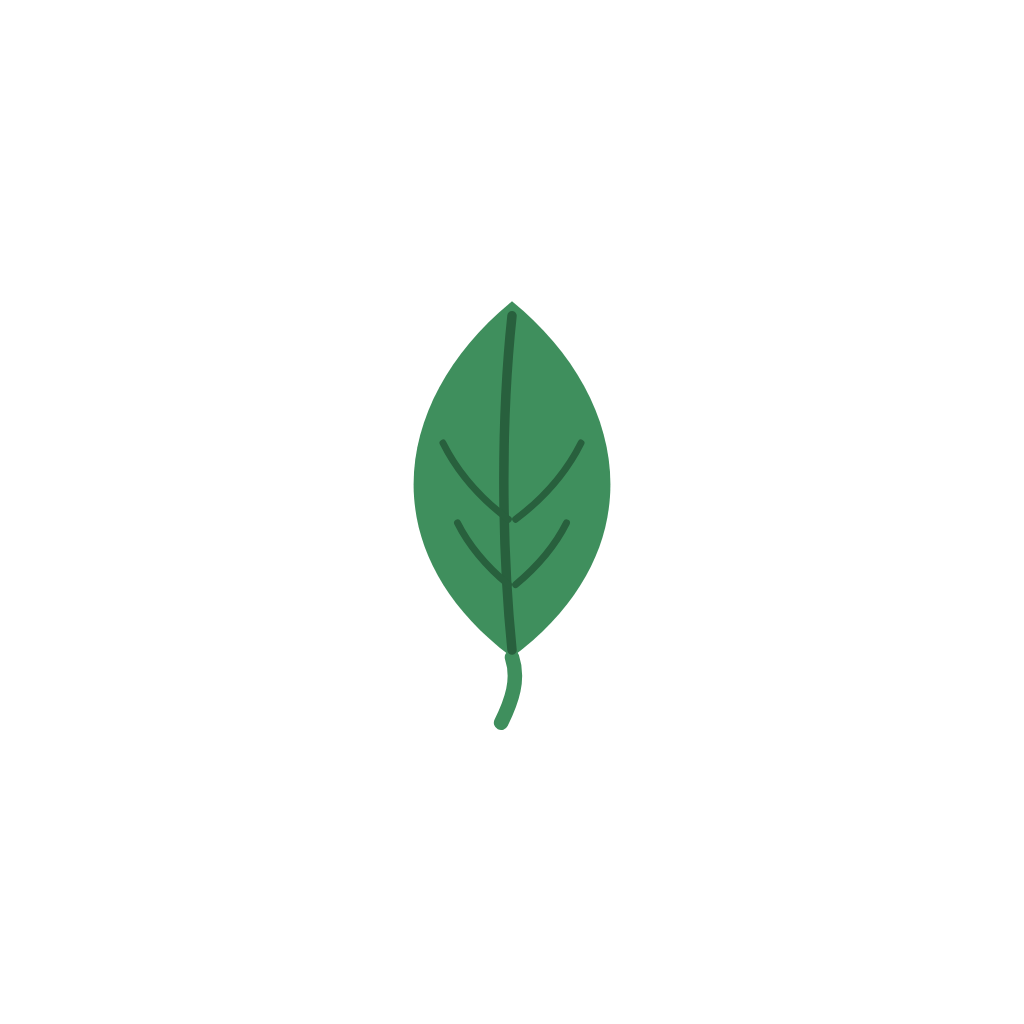
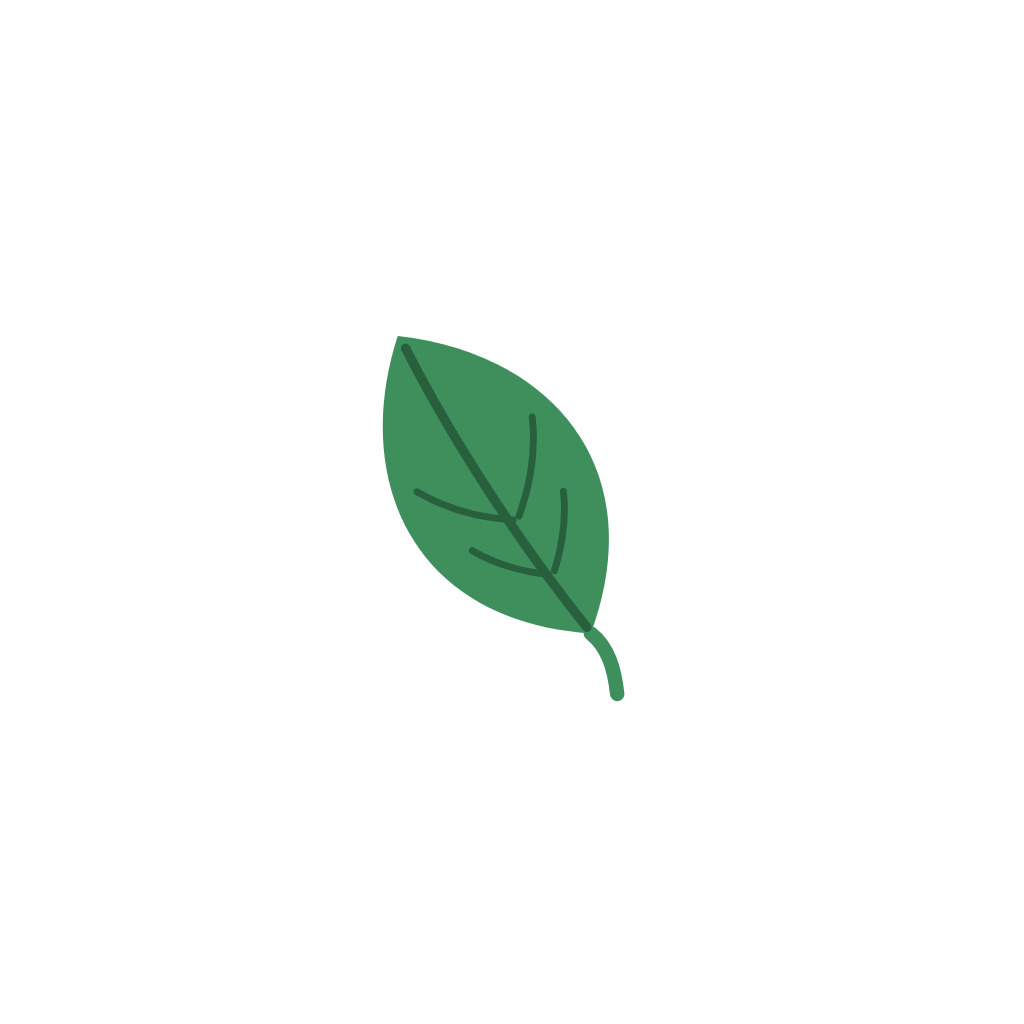
Que el icono y la hoja del arranque sean la misma hoja
Tocabas un icono con la hoja parada y aparecia una hoja inclinada de otro tamano.
Ahora el icono sale con la misma inclinacion con la que la hoja espera quieta en la
animacion, y el angulo vive en un solo lugar que leen las dos puntas: cambiarlo ahi y
volver a correr el script alcanza para que sigan coincidiendo.

La imagen de la pantalla nativa es literalmente el primer cuadro de la animacion: la
misma hoja apagada, del mismo tamano y en la misma posicion. El tamano no esta
elegido a ojo, lo calcula el script y lo imprime al terminar. Antes el cambio de la
pantalla nativa a la de JS era una hoja verde y chica que se volvia gris y grande.

De paso, el fondo de la pantalla nativa acompana el tema: en claro pasaba de verde
oscuro a gris claro de golpe.

Y la animacion en si: mientras la hoja se llena le crece atras un resplandor del
color de la estacion, y cuando termina sale un anillo del mismo color, una sola vez,
que separa el llenado de la salida. Se va de tres formas sorteadas en vez de dos.
Arranca en escala 1 y no en 0.94, que era el salto que se veia al tomar la posta.

Claude-Session: https://claude.ai/code/session_01RpAdLQn3NoWhaMPxX27Gbn

Changed region(s): [[0.375, 0.2812, 0.625, 0.7188]]

diff --git a/mobile/src/components/Splash.tsx b/mobile/src/components/Splash.tsx
@@ -2,7 +2,7 @@ import { Image } from "expo-image";
 import { useEffect, useRef, useState } from "react";
 import { Animated, Easing, StyleSheet, useWindowDimensions } from "react-native";
 import { useSafeAreaInsets } from "react-native-safe-area-context";
-import { LEAF_EMPTY, leafColorsFor } from "../theme/leaf";
+import { LEAF_EMPTY, LEAF_TILT, leafColorsFor } from "../theme/leaf";
 import { space } from "../theme/tokens";
 import { useTheme } from "../theme/useTheme";
 import { FillingLeaf } from "./Leaf";
@@ -20,13 +20,10 @@ const wordmark = {
 const LEAF_SIZE = 138;
 
 /**
- * Cómo está parada antes de soltarse.
- *
- * Bien inclinada y no casi derecha: derecha parece pegada a la pantalla, y así parece
- * colgando de algo que ya no se ve. Es además de donde arranca el giro de la caída, que
- * por eso no empieza de cero.
+ * Cómo está parada antes de soltarse. El ángulo vive en leaf.ts porque también lo usan
+ * los íconos, que tienen que mostrar la hoja parada igual que acá.
  */
-const INCLINACION = "-33deg";
+const INCLINACION = `${LEAF_TILT}deg`;
 
 const LLENADO_MS = 1400;
 /**
@@ -50,7 +47,9 @@ const SALIDA_MS = 1200;
 const MINIMO_MS = LLENADO_MS + CONTEMPLA_MS + MARCA_MS + SALIDA_MS;
 
 /** Por dónde se va. Se sortea al abrir, así la app no arranca siempre igual. */
-type Salida = "caida" | "rulo";
+type Salida = "caida" | "rulo" | "planeo";
+
+const SALIDAS: Salida[] = ["caida", "rulo", "planeo"];
 
 interface Props {
   /** La fuente y la sesión ya están. */
@@ -69,10 +68,22 @@ interface Props {
  * en marzo que en octubre; el invierno es una perenne y no una hoja seca, porque un
  * consultorio abierto todo el año no se cuenta con algo que se murió.
  *
- * Se va de dos maneras, sorteadas al abrir: cayendo con el vaivén de algo que el aire
- * frena, o dando una vuelta y saliéndose por la derecha. El telón se corre para el mismo
- * lado que se fue la hoja —hacia abajo pierde alto, hacia la derecha pierde ancho— así lo
- * que aparece atrás parece destapado por ella y no por una transición cualquiera.
+ * Arranca donde la dejó la pantalla nativa: la misma hoja, apagada, del mismo tamaño y
+ * con la misma inclinación. Ese cuadro está dibujado en leaf-mark.png, que sale del mismo
+ * archivo de formas (ver scripts/iconos.mjs), así que el cambio de una pantalla a la otra
+ * no se ve.
+ *
+ * Mientras se llena, atrás crece un resplandor del color de la estación. Es lo único que
+ * pinta la pantalla entera y por eso hace casi todo el trabajo: la hoja sola sobre el
+ * fondo se leía como un dibujo esperando, y con el resplandor se lee como algo que está
+ * pasando. Cuando termina de llenarse sale un anillo del mismo color, una sola vez, que
+ * es lo que avisa que ya está y separa el llenado de la salida.
+ *
+ * Se va de tres maneras, sorteadas al abrir: cayendo con el vaivén de algo que el aire
+ * frena, dando una vuelta y saliéndose por la derecha, o planeando de costado como si se
+ * la llevara el viento. El telón se corre para el mismo lado que se fue la hoja —hacia
+ * abajo pierde alto, hacia el costado pierde ancho— así lo que aparece atrás parece
+ * destapado por ella y no por una transición cualquiera.
  *
  * La marca de abajo se va primero, antes de que la hoja llegue a esa altura: verla
  * atravesada por una hoja que cae sería un choque, no una animación.
@@ -82,7 +93,7 @@ export function Splash({ ready, onDone, onShown }: Props) {
   const { width, height } = useWindowDimensions();
   const insets = useSafeAreaInsets();
 
-  const [salida] = useState<Salida>(() => (Math.random() < 0.5 ? "caida" : "rulo"));
+  const [salida] = useState<Salida>(() => SALIDAS[Math.floor(Math.random() * SALIDAS.length)]);
   const tinta = useRef(leafColorsFor(new Date())).current;
 
   /* El llenado mueve una propiedad del SVG y la escala mueve una transformación, y esos
@@ -93,6 +104,8 @@ export function Splash({ ready, onDone, onShown }: Props) {
   const vuela = useRef(new Animated.Value(0)).current;
   const marca = useRef(new Animated.Value(1)).current;
   const telon = useRef(new Animated.Value(0)).current;
+  /** El anillo que sale una sola vez, cuando la hoja termina de llenarse. */
+  const anillo = useRef(new Animated.Value(0)).current;
 
   const [llena100, setLlena100] = useState(false);
 
@@ -117,6 +130,18 @@ export function Splash({ ready, onDone, onShown }: Props) {
     const reloj = setTimeout(() => setLlena100(true), LLENADO_MS + CONTEMPLA_MS);
     return () => clearTimeout(reloj);
   }, [llena, crece]);
+
+  // El anillo del final del llenado. Una vez y no en bucle: es un aviso, no un latido.
+  useEffect(() => {
+    if (!llena100) return;
+
+    Animated.timing(anillo, {
+      toValue: 1,
+      duration: 900,
+      easing: Easing.out(Easing.cubic),
+      useNativeDriver: true,
+    }).start();
+  }, [llena100, anillo]);
 
   // Mientras haya algo que esperar, la hoja se mece. Una pantalla quieta es una app colgada.
   useEffect(() => {
@@ -161,8 +186,22 @@ export function Splash({ ready, onDone, onShown }: Props) {
   /* ---------------- cómo se mueve la hoja ---------------- */
 
   const cayendo = salida === "caida";
+  /** Las dos que se van de costado corren el telón a lo ancho y no a lo alto. */
+  const deCostado = salida !== "caida";
 
-  const vuelo = cayendo
+  const vuelo = salida === "planeo"
+    ? {
+        // Se va derecho de costado, cabeceando apenas, como algo que el viento arrastra
+        // sin llegar a hacerlo girar. Baja poco: lo que se lee es el desplazamiento.
+        translateY: vuela.interpolate({ inputRange: [0, 0.4, 1], outputRange: [0, height * 0.06, height * 0.18] }),
+        translateX: vuela.interpolate({ inputRange: [0, 0.35, 1], outputRange: [0, -width * 0.12, width * 0.95] }),
+        rotate: vuela.interpolate({
+          inputRange: [0, 0.35, 0.7, 1],
+          outputRange: [INCLINACION, "-52deg", "-8deg", "-30deg"],
+        }),
+        opacity: vuela.interpolate({ inputRange: [0, 0.8, 1], outputRange: [1, 1, 0] }),
+      }
+    : cayendo
     ? {
         // Arranca despacio y acelera, con el aire corriéndola de un lado al otro.
         translateY: vuela.interpolate({ inputRange: [0, 0.25, 0.55, 1], outputRange: [0, height * 0.09, height * 0.36, height * 0.95] }),
@@ -185,7 +224,7 @@ export function Splash({ ready, onDone, onShown }: Props) {
      Se escala desde el centro, así que hay que empujarlo de vuelta la mitad de lo que se
      encogió para que el borde de abajo (o el de la derecha) se quede donde está. */
   const encoge = telon.interpolate({ inputRange: [0, 1], outputRange: [1, 0.0001] });
-  const empuja = telon.interpolate({ inputRange: [0, 1], outputRange: [0, (cayendo ? height : width) / 2] });
+  const empuja = telon.interpolate({ inputRange: [0, 1], outputRange: [0, (deCostado ? width : height) / 2] });
 
   return (
     <Animated.View
@@ -199,9 +238,9 @@ export function Splash({ ready, onDone, onShown }: Props) {
           StyleSheet.absoluteFill,
           {
             backgroundColor: dark ? colors.ink : colors.bg,
-            transform: cayendo
-              ? [{ translateY: empuja }, { scaleY: encoge }]
-              : [{ translateX: empuja }, { scaleX: encoge }],
+            transform: deCostado
+              ? [{ translateX: empuja }, { scaleX: encoge }]
+              : [{ translateY: empuja }, { scaleY: encoge }],
           },
         ]}
       />
@@ -224,14 +263,38 @@ export function Splash({ ready, onDone, onShown }: Props) {
         />
       </Animated.View>
 
-      {/* La traslación va acá afuera y el giro adentro: si el giro fuera acá, la franja
-          que llena la hoja giraría con ella y el color subiría en diagonal. */}
+      {/* El resplandor y el anillo van pegados a la hoja, adentro de la misma traslación,
+          así la acompañan cuando se suelta en vez de quedarse plantados en el medio. */}
       <Animated.View
         style={{
           opacity: vuelo.opacity,
           transform: [{ translateX: vuelo.translateX }, { translateY: vuelo.translateY }],
         }}
       >
+        <Animated.View
+          pointerEvents="none"
+          style={[
+            styles.resplandor,
+            {
+              backgroundColor: tinta.blade,
+              opacity: crece.interpolate({ inputRange: [0, 1], outputRange: [0, dark ? 0.22 : 0.16] }),
+              transform: [{ scale: crece.interpolate({ inputRange: [0, 1], outputRange: [0.55, 1] }) }],
+            },
+          ]}
+        />
+
+        <Animated.View
+          pointerEvents="none"
+          style={[
+            styles.anillo,
+            {
+              borderColor: tinta.blade,
+              opacity: anillo.interpolate({ inputRange: [0, 0.15, 1], outputRange: [0, 0.45, 0] }),
+              transform: [{ scale: anillo.interpolate({ inputRange: [0, 1], outputRange: [0.62, 1.5] }) }],
+            },
+          ]}
+        />
+
         <FillingLeaf
           size={LEAF_SIZE}
           empty={LEAF_EMPTY}
@@ -241,7 +304,9 @@ export function Splash({ ready, onDone, onShown }: Props) {
             transform: [
               { rotate: vuelo.rotate },
               { rotate: mece.interpolate({ inputRange: [-1, 1], outputRange: ["-3deg", "3deg"] }) },
-              { scale: crece.interpolate({ inputRange: [0, 1], outputRange: [0.94, 1] }) },
+              // Arranca en 1 y no en 0.94: en 1 está la hoja que dejó la pantalla nativa,
+              // y empezar más chica sería un salto justo en el cambio de una a la otra.
+              { scale: crece.interpolate({ inputRange: [0, 1], outputRange: [1, 1.06] }) },
             ],
           }}
         />
@@ -250,8 +315,32 @@ export function Splash({ ready, onDone, onShown }: Props) {
   );
 }
 
+/** El resplandor y el anillo, medidos contra la hoja para que crezcan con ella. */
+const HALO = LEAF_SIZE * 2.3;
+
 const styles = StyleSheet.create({
   pantalla: { alignItems: "center", justifyContent: "center", pointerEvents: "none" },
+  resplandor: {
+    position: "absolute",
+    width: HALO,
+    height: HALO,
+    borderRadius: HALO / 2,
+    left: "50%",
+    top: "50%",
+    marginLeft: -HALO / 2,
+    marginTop: -HALO / 2,
+  },
+  anillo: {
+    position: "absolute",
+    width: HALO,
+    height: HALO,
+    borderRadius: HALO / 2,
+    borderWidth: 2,
+    left: "50%",
+    top: "50%",
+    marginLeft: -HALO / 2,
+    marginTop: -HALO / 2,
+  },
   marca: { position: "absolute", alignItems: "center" },
   marcaImagen: { width: 128, height: 72 },
 });

diff --git a/mobile/src/theme/leaf.ts b/mobile/src/theme/leaf.ts
@@ -27,6 +27,20 @@ export const LEAF_VEINS = [
 /** El cabito. Da el punto por donde la hoja se soltó, que es de lo que trata la caída. */
 export const LEAF_STEM = "M50 102 C52 108 50 114 47 120";
 
+/**
+ * Cuánto está inclinada la hoja cuando está quieta, en grados.
+ *
+ * Bien inclinada y no casi derecha: derecha parece pegada a la pantalla, y así parece
+ * colgando de algo que ya no se ve. Es además de donde arranca el giro de la caída, que
+ * por eso no empieza de cero.
+ *
+ * Está acá y no en la pantalla de arranque porque no lo usa solo ella: los íconos de la
+ * app se generan con este mismo ángulo (ver scripts/iconos.mjs), así que la hoja del
+ * escritorio y la que aparece al abrir son la misma hoja en la misma posición. Cambiarlo
+ * acá y volver a correr el script alcanza para que las dos sigan coincidiendo.
+ */
+export const LEAF_TILT = -33;
+
 export type Season = "primavera" | "verano" | "otono" | "invierno";
 
 export interface LeafColors {
